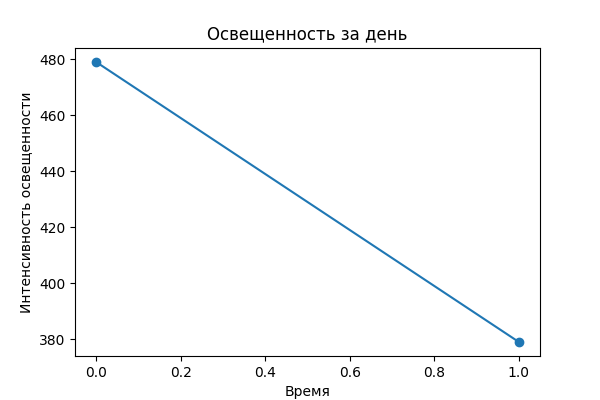
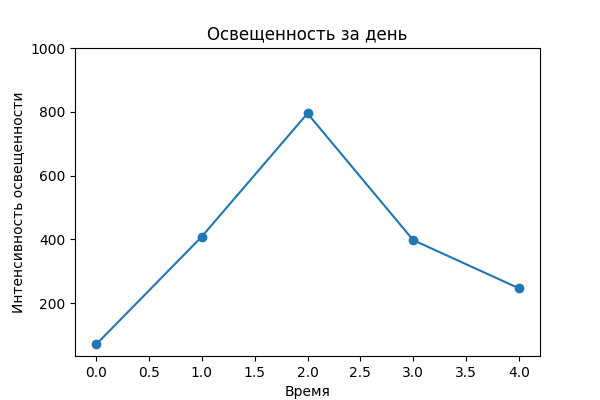
накинул красоты теперь хоть значения в нормальных пределах почти все готово

diff --git a/main.py b/main.py
@@ -8,7 +8,7 @@ import config
 
 eel.init('web')
 clien = socket.socket(socket.AF_INET, socket.SOCK_STREAM)
-clien.connect(("127.0.0.1", 1265))
+clien.connect(("127.0.0.1", 1266))
 
 
 @eel.expose
@@ -23,6 +23,7 @@ def call(device_name):
         return 1
     else:
         return 0
+
 
 @eel.expose
 def get_data():
@@ -49,28 +50,29 @@ def get_data():
     del data3[len(data3) - 1]
     data3 = list(map(int, data3))
 
-    ss = pd.Series(int(datafile1.decode('utf-8')))  # график момента
+    ss = pd.Series(int(datafile1.decode('utf-8')), [''])  # график момента
     f2 = plt.figure(figsize=(6, 4))
-    ss.plot(kind='bar', title="Освещенность сейчас", ylabel='Интенсивность освещенности', width=0.1)
+    ss.plot(kind='bar', title="Освещенность сейчас", ylim=(None, 500), ylabel='Интенсивность освещенности', width=0.1)
     f2.savefig('web/static/plot0.png')
 
     s = pd.Series(data2, day) #график недели
     f1 = plt.figure(figsize=(6, 4))
-    s.plot(kind='bar', ylabel='Интенсивность освещенности', title="Освещенность на этой неделе")
+    s.plot(kind='bar', ylim=(None, 500), ylabel='Интенсивность освещенности', title="Освещенность на этой неделе")
+    plt.xticks(rotation=360)
     f1.savefig('web/static/plot1.png')
 
     fig, ax = plt.subplots()  #график зависимости по неделям
     ax.bar(x1, data2, width=0.4)
     ax.bar(x2, data3, width=0.4)
     ax.set_xticklabels(['пн']+day)
-    fig.title = 'Освещенность отностельно прошлой недели'
+    ax.set_title('Освещенность отностельно прошлой недели')
     fig.set_figwidth(6)  # ширина Figure
     fig.set_figheight(4)  # высота Figure
     fig.savefig('web/static/plot2.png')
 
     s = pd.Series(config.data) #график по часам
     f3 = plt.figure(figsize=(6, 4))
-    s.plot(xlabel='Время', ylabel='Интенсивность освещенности',  title="Освещенность за день", marker='o')
+    s.plot(xlabel='Время', ylim=(None, 500), ylabel='Интенсивность освещенности',  title="Освещенность за день", marker='o')
     f3.savefig('web/static/plot3.png')
     return 0
 

diff --git a/server.py b/server.py
@@ -3,23 +3,24 @@ import time
 
 server = socket.socket(socket.AF_INET, socket.SOCK_STREAM)
 
-server.bind(("127.0.0.1", 1265))
+server.bind(("127.0.0.1", 1266))
 
 server.listen(2)
 user1, adres1 = server.accept()
 user2, adres2 = server.accept()
-
+in_use = []
 file = open('nuber_data.txt', 'r')  # тут будет файл со всесеми номерами (потом он будет scv)
 line = file.read().split('\n')  # получаем все серийники (нужноподключить pndas)
+
 while True:
-    # user1.send('send'.encode('utf-8'))
     data_user1 = user1.recv(1024)   # принимаем режим
     print(data_user1.decode('utf-8'))
 
     if data_user1.decode('utf-8') == 'check':
         device_name = user1.recv(1024)
 
-        if device_name.decode('utf-8') in line:   # тут будет нормальная проверка номера
+        if device_name.decode('utf-8') in line and not(device_name.decode('utf-8') in in_use):   # тут будет нормальная проверка номера
+            in_use.append(device_name.decode('utf-8'))
             user1.send('1'.encode('utf-8'))  # возвращаем 1 если проверка прошла
         else:
             user1.send('0'.encode('utf-8'))  # возвращаем 0 если проверка не прошла

diff --git a/client2.py b/client2.py
@@ -3,10 +3,10 @@ from random import randint
 import time
 
 clien = socket.socket(socket.AF_INET, socket.SOCK_STREAM)
-clien.connect(("127.0.0.1", 1265))
+clien.connect(("127.0.0.1", 1266))
 
-data1 = [randint(1, 100) for i in range(7)]#типа средние за неделю
-data3 = [randint(1, 100) for i in range(7)]#типа средние за пошлую неделю
+data1 = [randint(1, 500) for i in range(7)]#типа средние за неделю
+data3 = [randint(1, 500) for i in range(7)]#типа средние за пошлую неделю
 
 
 def generate(data):
@@ -19,7 +19,7 @@ def generate(data):
 while True:
     data = clien.recv(1024)
     if data.decode('utf-8') == 'get':
-        data2 = str(randint(1, 1000))
+        data2 = str(randint(1, 500))
         #line1 = generate(data2)
         line2 = generate(data1)
         line3 = generate(data3)
